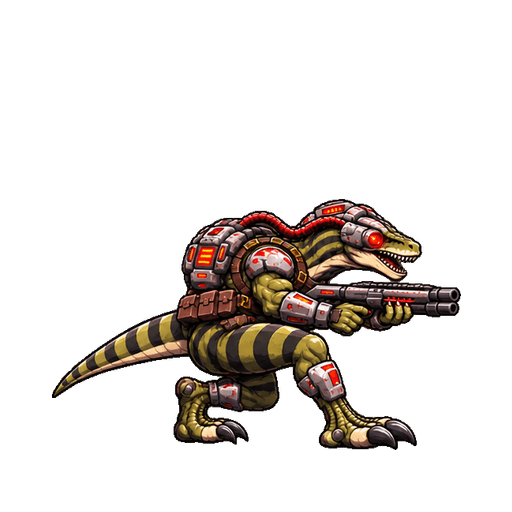
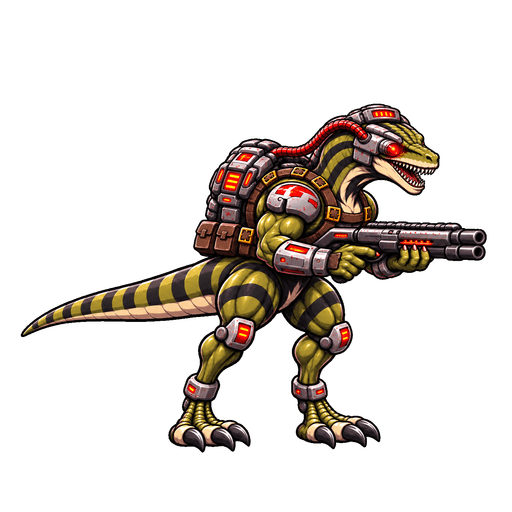
39T7: standing, stalking and jog posture pilot with speed-aware gait selection

Changed region(s): [[0.0312, 0.1875, 0.9688, 0.9062]]

diff --git a/lib/raptorSpriteOnly.ts b/lib/raptorSpriteOnly.ts
@@ -7,17 +7,21 @@ export type RaptorAction="idle"|"walk"|"run"|"slide"|"jump"|"land"|"shoot"|"hit"
 export const RAPTOR_DIRECTIONS=["right","front-right","front","front-left","left","back-left","back","back-right"] as const;
 export type RaptorDirection=typeof RAPTOR_DIRECTIONS[number];
 // Physical inventory only. Other actions deliberately borrow these provisional families.
-export const RAPTOR_COUNTS={idle:1,run:4,sprint:4,slide:3} as const;
+export const RAPTOR_COUNTS={idle:1,run:4,stalk:4,jog:4,sprint:4,slide:3} as const;
+export type RaptorFamily=keyof typeof RAPTOR_COUNTS;
+// New posture artwork is enabled only for complete, explicitly accepted directional sets.
+const postureDirections:readonly string[]=inventory.postureDirections;
+const hasPostures=(angle:number)=>postureDirections.includes(selectRaptorDirection(angle));
 export type RaptorVisualState={x:number;y:number;angle:number;speed:number;sliding:boolean;airborne:boolean;hit:boolean;firing:boolean;time:number;scale:number;slideRemaining?:number;slideDuration?:number;attached?:boolean;actorId?:string;worldX?:number;worldY?:number;travelAngle?:number};
 // World-space samples exclude camera motion, elevation and cover presentation offsets.
-const gaitMemory=new Map<string,{time:number;x?:number;y?:number;phase:number;sprinting:boolean;airborne:boolean;landedAt:number}>();
+const gaitMemory=new Map<string,{time:number;x?:number;y?:number;phase:number;sprinting:boolean;jogging:boolean;airborne:boolean;landedAt:number}>();
 export const RAPTOR_STRIDE_DISTANCE=100;
 // Side-view contact sweeps about 155 source pixels to passing, or 33 world units at the default render scale.
 const SPRINT_STRIDE_DISTANCE=120;
 const CONTACT_FRACTION=.28;
 export function raptorGaitPhase(state:RaptorVisualState):number{
  const id=state.actorId||"local",old=gaitMemory.get(id);
- const memory=old&&state.time>=old.time?old:{time:state.time,x:state.worldX,y:state.worldY,phase:0,sprinting:false,airborne:false,landedAt:-Infinity};
+ const memory=old&&state.time>=old.time?old:{time:state.time,x:state.worldX,y:state.worldY,phase:0,sprinting:false,jogging:false,airborne:false,landedAt:-Infinity};
  const dt=state.time-memory.time;
  if(memory.airborne && !state.airborne) memory.landedAt=state.time;
  memory.airborne=state.airborne;
@@ -25,6 +29,7 @@ export function raptorGaitPhase(state:RaptorVisualState):number{
  const interrupted=state.sliding || state.airborne || state.hit || state.attached || state.time-memory.landedAt<.075;
  // Separate entry and exit thresholds prevent pose chatter on turns and acceleration.
  memory.sprinting=!interrupted && state.speed>(memory.sprinting?145:170) && alignment>(memory.sprinting ? .62 : .78);
+ memory.jogging=!interrupted && state.speed>(memory.jogging?75:95);
 
  if(dt>0&&dt<=.25&&!interrupted&&state.speed>2){
   const distance=state.worldX!==undefined&&state.worldY!==undefined&&memory.x!==undefined&&memory.y!==undefined
@@ -32,7 +37,8 @@ export function raptorGaitPhase(state:RaptorVisualState):number{
   // Reject teleports/snapshot corrections; they are not strides.
   if(distance<=Math.max(12,state.speed*dt*2)){
    const backwards=state.travelAngle!==undefined&&Math.cos(state.travelAngle-state.angle)<-.5;
-   memory.phase=((memory.phase+(backwards?-1:1)*distance/(memory.sprinting?SPRINT_STRIDE_DISTANCE:RAPTOR_STRIDE_DISTANCE))%1+1)%1;
+   const stride=memory.sprinting?SPRINT_STRIDE_DISTANCE:hasPostures(state.angle)&&!memory.jogging?60:RAPTOR_STRIDE_DISTANCE;
+   memory.phase=((memory.phase+(backwards?-1:1)*distance/stride)%1+1)%1;
   }
  }
  if(dt!==0||!old){memory.time=state.time;memory.x=state.worldX;memory.y=state.worldY;}
@@ -40,7 +46,7 @@ export function raptorGaitPhase(state:RaptorVisualState):number{
 }
 const slideMemory=new Map<string,{time:number;active:boolean;startedAt:number;recoveryUntil:number;angle:number}>();
 /** Presentation-only phase selection. It never delays or writes authoritative actions. */
-export function selectRaptorFrame(state:RaptorVisualState):{family:"idle"|"run"|"sprint"|"slide";frame:number;angle:number}{
+export function selectRaptorFrame(state:RaptorVisualState):{family:RaptorFamily;frame:number;angle:number}{
  const phase=raptorGaitPhase(state);
  const id=state.actorId||"local",previous=slideMemory.get(id);
  const memory=previous&&state.time>=previous.time?previous:{time:state.time,active:false,startedAt:state.time,recoveryUntil:0,angle:state.angle};
@@ -62,6 +68,11 @@ export function selectRaptorFrame(state:RaptorVisualState):{family:"idle"|"run"|
   const frame=(phase>=.5?2:0)+(phase%0.5>=CONTACT_FRACTION?1:0);
   return {family:"sprint",frame,angle:state.angle};
  }
+ if(state.speed>2&&hasPostures(state.angle)){
+  const family=gait.jogging?"jog":"stalk";
+  const frame=(phase>=.5?2:0)+(phase%0.5>=CONTACT_FRACTION?1:0);
+  return {family,frame,angle:state.angle};
+ }
  const action=selectRaptorAction(state),family=action==="run"||action==="walk"?"run":"idle";
  return {family,frame:family==="run"?Math.floor(phase*RAPTOR_COUNTS.run):0,angle:state.angle};
 }
@@ -74,16 +85,14 @@ export function clearRaptorAnimationTrace():void{animationTrace.clear();}
 const cache=new Map<string,HTMLImageElement>();
 const missing=new Set<string>();
 export function preloadRaptorSprites():Promise<boolean>{
- return Promise.all(Object.entries(RAPTOR_COUNTS).flatMap(([family,count])=>
-  RAPTOR_DIRECTIONS.flatMap(direction=>Array.from({length:count},(_,frame)=>{
-   const key=`${family}/${direction}/${String(frame).padStart(3,"0")}.png`;
+ return Promise.all(Object.keys(inventory.frames).map(key=>{
    return new Promise<boolean>(resolve=>{
     const img=new Image();cache.set(key,img);
     img.onload=()=>resolve(img.naturalWidth===512&&img.naturalHeight===512);
     img.onerror=()=>{missing.add(key);resolve(false)};
     img.src=`/assets/raptor-v2/${key}?v=${inventory.build}`;
    });
-  })))).then(results=>results.every(Boolean));
+  })).then(results=>results.every(Boolean));
 }
 export function selectRaptorDirection(angle:number):RaptorDirection {
  const octant=((Math.round(angle/(Math.PI/4))%8)+8)%8;
@@ -124,6 +133,7 @@ export function paintRaptorSprite(g:CanvasRenderingContext2D,state:RaptorVisualS
  g.fillText("RAPTOR V2",0,-72);g.fillText("ART PENDING",0,-83);
  g.restore();return false;
 }
+
 
 
 

diff --git a/public/raptor-animation-review.html b/public/raptor-animation-review.html
@@ -2,7 +2,7 @@
 <html lang="en"><meta charset="utf-8"><meta name="viewport" content="width=device-width, initial-scale=1">
 <title>Raptor animation review</title>
 <style>body{margin:20px;background:#101b25;color:#e9f3fa;font:16px system-ui}a{color:#8adceb}header{display:flex;gap:16px;align-items:center;flex-wrap:wrap}button,select{font:inherit;padding:8px;background:#243b4d;color:white;border:1px solid #6b8a9c;border-radius:6px}#grid{display:grid;grid-template-columns:repeat(auto-fit,minmax(280px,1fr));gap:12px;margin-top:20px}figure{margin:0;background:#20313e;border:1px solid #425868;border-radius:8px}canvas{width:100%;display:block}figcaption{padding:8px;text-align:center}#status{color:#a9c4d1}</style>
-<header><a href="/studio/character-lab">Back to combat lab</a><label>Action <select id="action"><option>sprint</option><option>run</option><option>slide</option><option>idle</option></select></label><button id="pause">Pause</button><button id="step">Next frame</button><label>Playback <select id="rate"><option value="4">4 fps</option><option value="8" selected>8 fps</option><option value="12">12 fps</option></select></label></header>
+<header><a href="/studio/character-lab">Back to combat lab</a><label>Action <select id="action"><option>sprint</option><option>run</option><option>stalk</option><option>jog</option><option>slide</option><option>idle</option></select></label><button id="pause">Pause</button><button id="step">Next frame</button><label>Playback <select id="rate"><option value="4">4 fps</option><option value="8" selected>8 fps</option><option value="12">12 fps</option></select></label></header>
 <p id="status">Loading artwork…</p><div id="grid"></div>
 <script>
 const grid=document.querySelector('#grid'),status=document.querySelector('#status'),action=document.querySelector('#action'),rate=document.querySelector('#rate');
@@ -13,19 +13,20 @@ action.onchange=()=>{frame=0;last=0};
 async function start(){
  inventory=await (await fetch('/assets/raptor-v2/manifest.json',{cache:'no-store'})).json();
  let loaded=0;
- await Promise.all(inventory.directions.flatMap(direction=>Object.entries(inventory.counts).flatMap(([family,count])=>Array.from({length:count},(_,i)=>new Promise((resolve,reject)=>{
-  const key=`${family}/${direction}/${String(i).padStart(3,'0')}.png`,image=new Image();
+ await Promise.all(Object.keys(inventory.frames).map(key=>new Promise((resolve,reject)=>{
+  const image=new Image();
   image.onload=()=>{if(image.naturalWidth!==512||image.naturalHeight!==512)return reject(Error(key+' has wrong dimensions'));images.set(key,image);loaded++;resolve()};
   image.onerror=()=>reject(Error('Failed to load '+key));image.src='/assets/raptor-v2/'+key+'?v='+inventory.build;
- })))));
+ })));
  for(const direction of inventory.directions){const figure=document.createElement('figure'),canvas=document.createElement('canvas'),caption=document.createElement('figcaption');canvas.width=320;canvas.height=300;caption.textContent=direction;figure.append(canvas,caption);grid.append(figure);views.push({direction,canvas,caption})}
  status.textContent=inventory.build+' · '+loaded+' frames loaded · Slide frames show entry, hold, recovery';requestAnimationFrame(draw);
 }
 function draw(time){
  if(!paused&&time-last>1000/Number(rate.value)){frame++;last=time}
  const family=action.value,index=frame%inventory.counts[family];
- for(const view of views){const key=`${family}/${view.direction}/${String(index).padStart(3,'0')}.png`,anchor=inventory.frames[key].anchor,g=view.canvas.getContext('2d');g.clearRect(0,0,320,300);g.strokeStyle='#547180';g.beginPath();g.moveTo(0,245);g.lineTo(320,245);g.stroke();g.drawImage(images.get(key),160-anchor[0]*.6,245-anchor[1]*.6,307.2,307.2);view.caption.textContent=view.direction+' · '+(index+1)+'/'+inventory.counts[family]}
+ for(const view of views){const key=`${family}/${view.direction}/${String(index).padStart(3,'0')}.png`,record=inventory.frames[key],g=view.canvas.getContext('2d');g.clearRect(0,0,320,300);g.strokeStyle='#547180';g.beginPath();g.moveTo(0,245);g.lineTo(320,245);g.stroke();if(!record){view.caption.textContent=view.direction+' · '+family+' artwork pending';continue}const anchor=record.anchor;g.drawImage(images.get(key),160-anchor[0]*.6,245-anchor[1]*.6,307.2,307.2);view.caption.textContent=view.direction+' · '+(index+1)+'/'+inventory.counts[family]}
  requestAnimationFrame(draw);
 }
 start().catch(error=>{status.textContent=error.message;status.style.color='#ff8b8b'});
 </script></html>
+

diff --git a/app/studio/character-lab/page.tsx b/app/studio/character-lab/page.tsx
@@ -21,17 +21,15 @@ export default function CombatLab(){
  return <main style={{minHeight:"100vh",background:"#08101b",color:"#f5fbff",fontFamily:"Arial",padding:"max(25px,env(safe-area-inset-top)) 20px"}}>
   <div style={{maxWidth:800,margin:"auto"}}>
    <a href="/studio" style={{color:"#89e9f2"}}>← BACK TO STUDIO</a>
-   <p style={{color:"#ff8d9e",letterSpacing:2,fontSize:12}}>GOD MODE / BUILD 39T6.2 PLAYTEST</p>
+   <p style={{color:"#ff8d9e",letterSpacing:2,fontSize:12}}>GOD MODE / BUILD 39T7.0 PLAYTEST</p>
    <h1>COMBAT LAB</h1>
    <a href="/raptor-animation-review.html" style={{color:"#89e9f2"}}>Review all run and slide frames</a>
    <p>Both fighters use the newer XYZ combat engine. This is a test build, not a production character unlock.</p>
    <div style={{display:"grid",gridTemplateColumns:"repeat(auto-fit,minmax(230px,1fr))",gap:14,marginTop:25}}>
     <button style={button} onClick={()=>setFighter("jade")}>JADE <small style={{display:"block",fontWeight:400,marginTop:10}}>Existing gameplay baseline</small></button>
-    <button disabled={artReady!==true} style={{...button,borderColor:"#ff925e",opacity:artReady?1:.5}} onClick={()=>setFighter("raptor")}>RAPTOR V2 <small style={{display:"block",fontWeight:400,marginTop:10}}>{artReady===null?"Loading Raptor artwork…":artReady?"Eight directions · Run and baseball Slide":"Artwork failed to load — reload to retry"}</small></button>
+    <button disabled={artReady!==true} style={{...button,borderColor:"#ff925e",opacity:artReady?1:.5}} onClick={()=>setFighter("raptor")}>RAPTOR V2 <small style={{display:"block",fontWeight:400,marginTop:10}}>{artReady===null?"Loading Raptor artwork…":artReady?"Right: standing / stalk / jog pilot · Eight-direction sprint / slide":"Artwork failed to load — reload to retry"}</small></button>
    </div>
    <p style={{color:"#f5bf8e",fontSize:13,marginTop:24}}>Raptor cartoon-animation preview: eight directional run cycles and baseball slides. Slow movement shares the run poses; ready stance uses the slide recovery crouch. Rear stride alternation and transition polish remain under review. Moving fire follows aim.</p>
   </div>
  </main>;
 }
-
-
